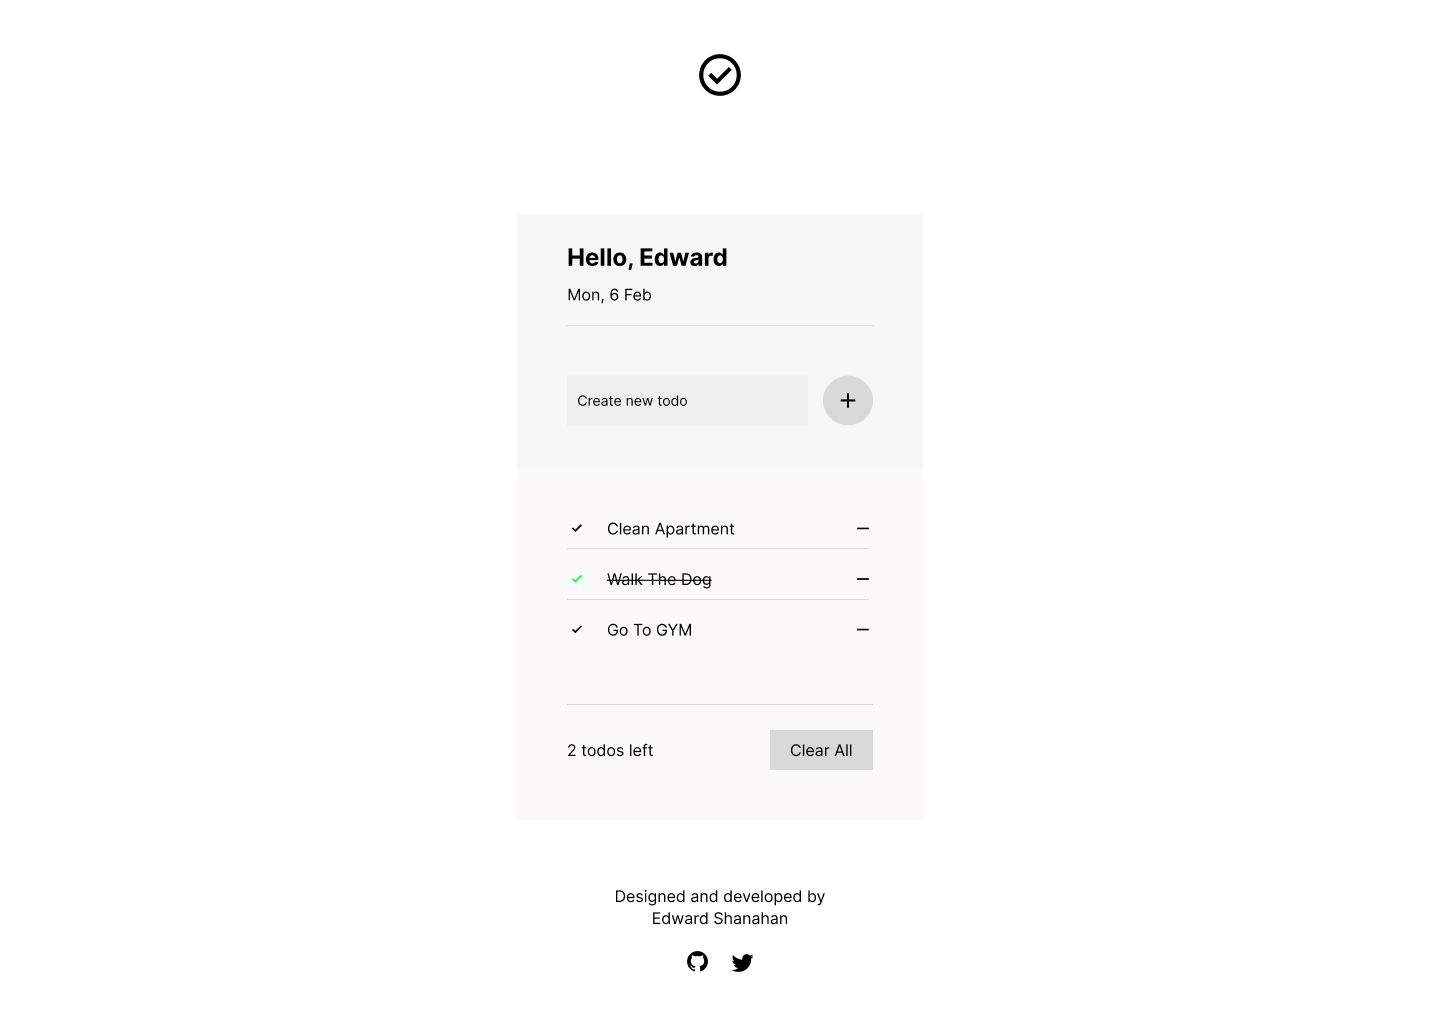
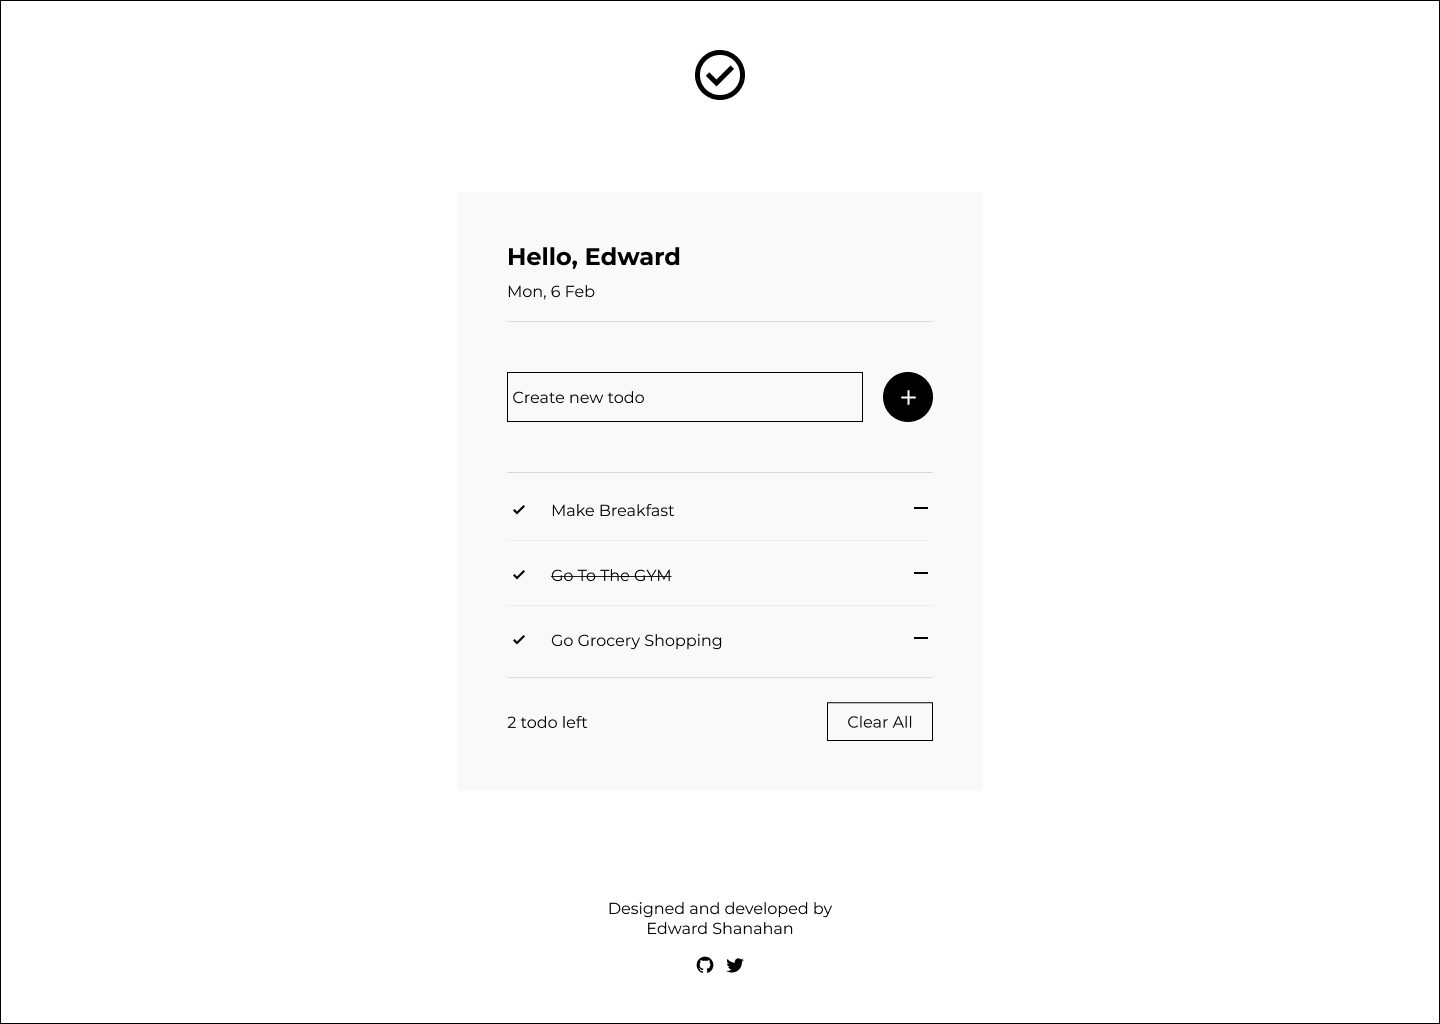
Replace wireframe images with new images

diff --git a/README.md b/README.md
@@ -38,26 +38,26 @@
 
 ### Wireframes
 
-Wireframes was created using [Figma](https://www.figma.com/)
+Wireframes were created using [Figma](https://www.figma.com/)
 
 <details>
-<summary>Desktop Wireframe - Welcome Section</summary>
-<img src="readme-assets/images/Wireframe-Desktop-Welcome.jpg">
+<summary>Desktop Wireframe - Profile Section</summary>
+<img src="readme-assets/images/Wireframe-Desktop-Profile.jpg" alt="Desktop Wirefram Profile">
 </details>
 
 <details>
 <summary>Desktop Wireframe - Todo Section</summary>
-<img src="readme-assets/images/Wireframe-Desktop-Todo.jpg">
+<img src="readme-assets/images/Wireframe-Desktop-Todo.jpg" alt="Desktop Wirefram Todo">
+</details>
+
+<details>
+<summary>Mobile Wireframe - Profile Section</summary>
+<img src="readme-assets/images/Wireframe-Mobile-Profile.jpg" alt="Mobile Wirefram Profile">
 </details>
 
 <details>
 <summary>Mobile Wireframe - Todo Section</summary>
-<img src="readme-assets/images/Wireframe-Mobile-Welcome.jpg">
-</details>
-
-<details>
-<summary>Mobile Wireframe - Todo Section</summary>
-<img src="readme-assets/images/Wireframe-Mobile-Todo.jpg">
+<img src="readme-assets/images/Wireframe-Mobile-Todo.jpg" alt="Mobile Wirefram Todo">
 </details>
 
 ### Typeography
